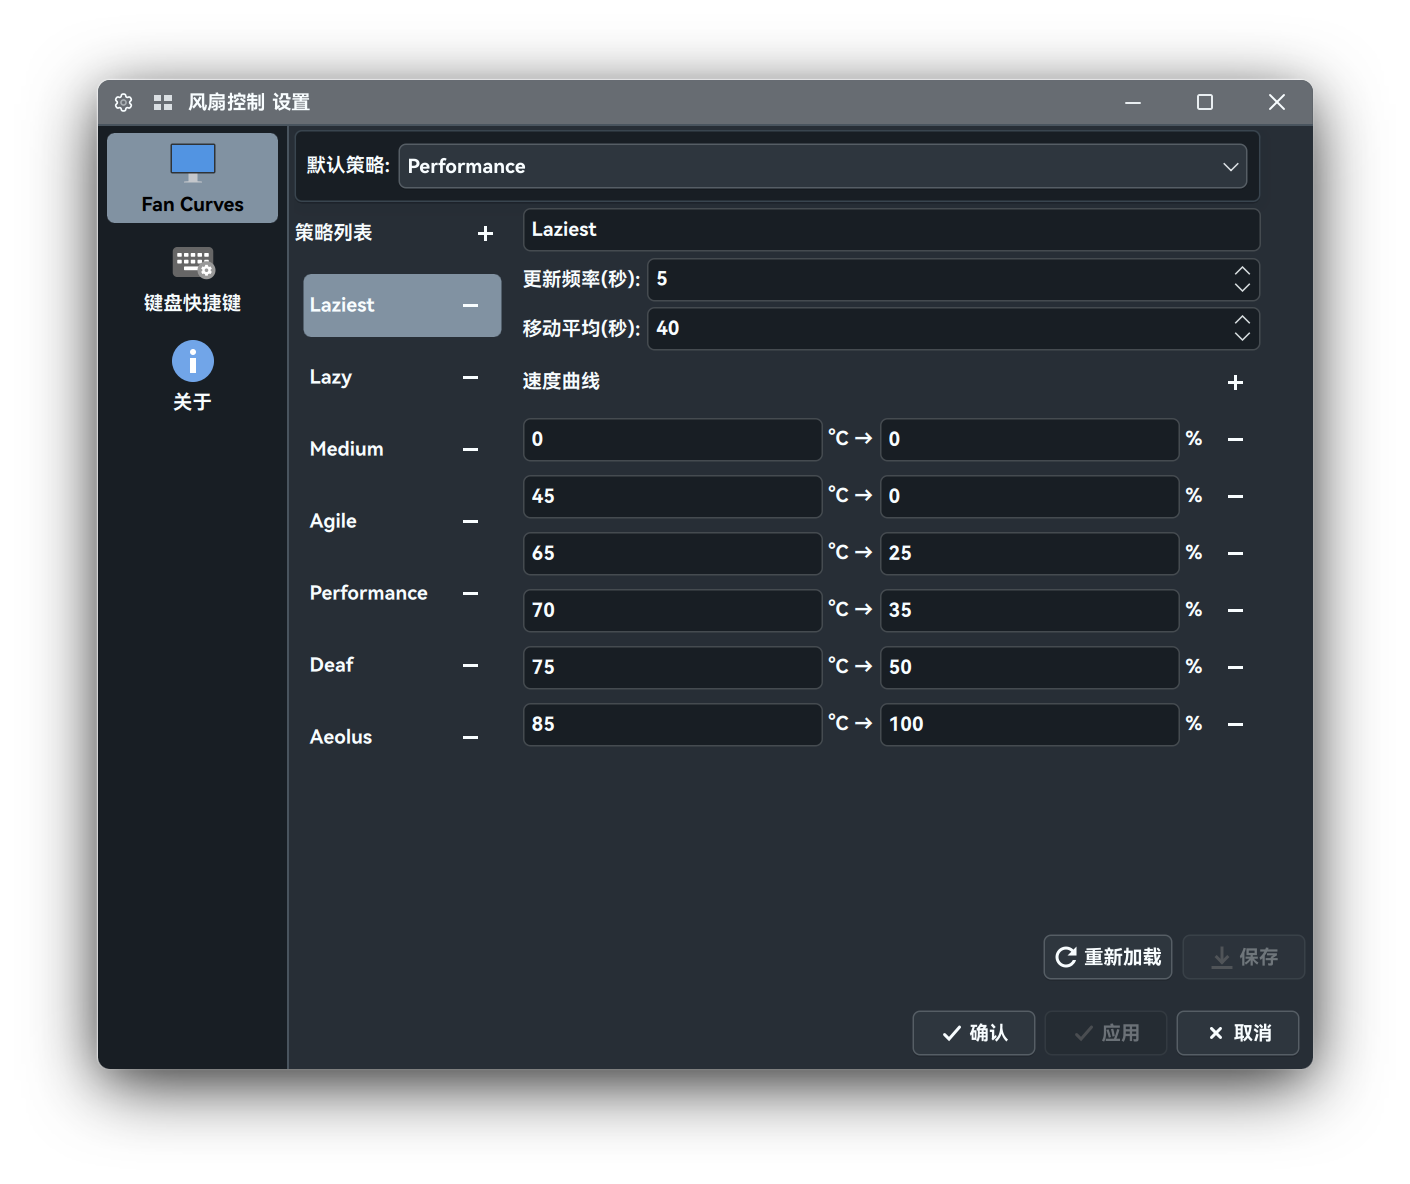
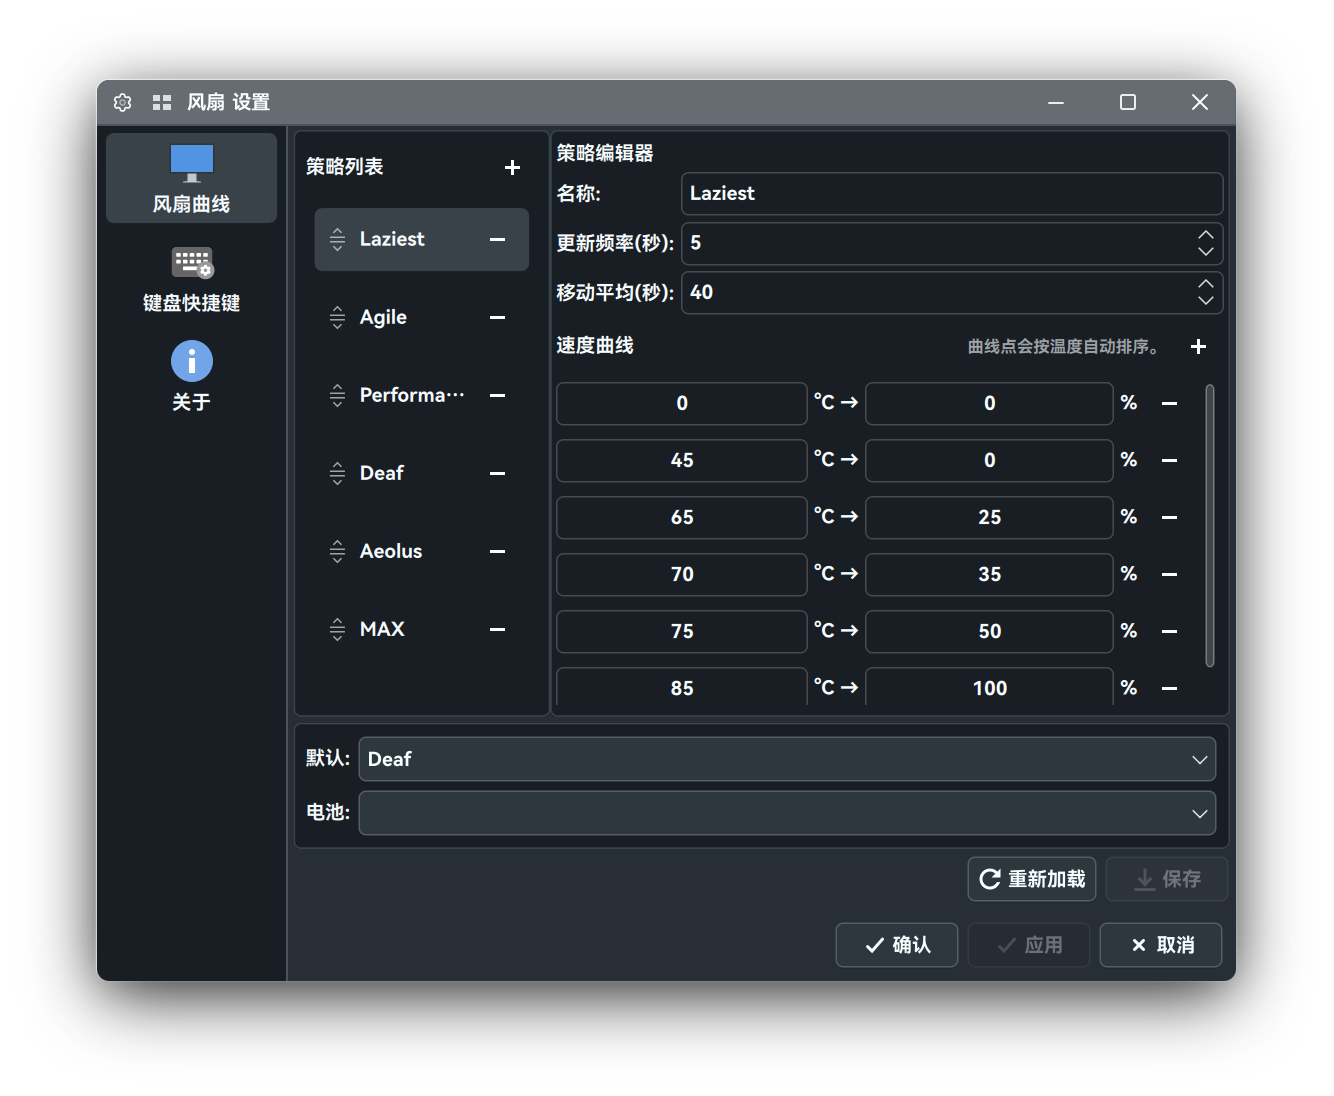
v1.2: update config editor docs, packaging and version

diff --git a/README.md b/README.md
@@ -12,7 +12,10 @@ A vibe coding program, powered with ![DeepSeek V4](https://img.shields.io/badge/
 - **Strategy slider**: Quickly switch between strategies (Silent ↔ Performance)
 - **System tray integration**: Hover and scroll on the tray icon to cycle between strategies
 - **OSD integration**: Compatible with KDE's On-Screen Display for strategy change notifications
-- **Configuration editor**: Create, edit, rename, and delete strategies; configure speed curves
+- **Configuration editor**: Create, edit, rename, delete and drag-to-reorder strategies; configure speed curves
+- **Responsive layout**: The editor adapts to window size, with internal scrolling for long lists
+- **Battery strategy**: Choose a separate strategy while on battery power
+- **Safe saving**: Config is validated and applied by fw-fanctrl automatically
 
 ## Screenshots
 
@@ -32,11 +35,25 @@ A vibe coding program, powered with ![DeepSeek V4](https://img.shields.io/badge/
 
 ## Installation
 
-### From source
+### From Release (recommended for users)
+
+1. Download the `com.github.iwinoid.fw-fanctrl-kde-1.2.tar.xz` package from the [Releases](../../releases) page.
+2. In Plasma, open **Add Widgets → Get New Widgets... → Install from local file**, then select the downloaded `.tar.xz`.
+3. Or install it from a terminal:
 
 ```bash
-git clone https://github.com/iwinoid/fw-fanctl-kde.git
-cd fw-fanctl-kde
+kpackagetool6 --type=Plasma/Applet --install com.github.iwinoid.fw-fanctrl-kde-1.2.tar.xz
+```
+
+4. Restart Plasma if the widget does not appear immediately.
+
+The release package only contains runtime files (`metadata.json`, `contents/`, `scripts/`), so it is smaller and easier for normal users to install.
+
+### From Source (for developers)
+
+```bash
+git clone https://github.com/iwinoid/fw-fanctrl-kde.git
+cd fw-fanctrl-kde
 make install
 ```
 
@@ -46,13 +63,7 @@ This will:
 2. Set executable permissions on the helper script
 3. Restart Plasma shell automatically
 
-### Manual
-
-```bash
-kpackagetool6 --type=Plasma/Applet --install .
-```
-
-Then restart Plasma: `kquitapp6 plasmashell; plasmashell &`
+The source tree also contains README, LICENSE, Makefile and screenshots; use this method if you want to modify or develop the widget.
 
 ## Usage
 
@@ -60,7 +71,7 @@ Then restart Plasma: `kquitapp6 plasmashell; plasmashell &`
 2. Click the tray icon to open the popup
 3. Drag the slider to switch strategy
 4. Right-click the tray icon → **Configure** to edit strategies and fan curves
-5. Click **Save** to apply changes (requires admin password via `pkexec`)
+5. Click **Save** — fw-fanctrl validates and applies the configuration automatically
 
 ## Project Structure
 
@@ -81,7 +92,7 @@ fw-fanctrl-kde/
 │   │   ├── 16.png, 32.png, 64.png # Toolbar icons
 │   │   └── offline.png           # Offline state icon
 │   └── ui/
-│       ├── configCurves.qml      # Configuration editor UI
+│       ├── configCurves.qml      # Config editor with drag-and-drop strategy reordering
 │       ├── FwBackend.qml         # QML backend (DataSource + poll timer)
 │       └── main.qml              # Main plasmoid UI
 └── image/

diff --git a/README.zh_CN.md b/README.zh_CN.md
@@ -11,7 +11,10 @@
 - **实时状态**：显示当前温度、风扇转速和策略
 - **策略滑条**：快速在静音↔性能之间切换策略
 - **系统托盘集成**：附带悬停在图标上滑动滚轮进行策略切换
-- **配置编辑器**：创建、编辑、重命名、删除策略，配置速度曲线
+- **配置编辑器**：创建、编辑、重命名、删除、拖拽排序策略，配置速度曲线
+- **响应式布局**：编辑器随窗口自适应，长列表在内部滚动
+- **电池策略**：可单独设置电池供电时的策略
+- **安全保存**：保存时由 fw-fanctrl 自动校验并应用
 - **OSD集成**：兼容KDE的OSD
 
 
@@ -33,11 +36,25 @@
 
 ## 安装
 
-### 源码安装
+### 从 Release 安装（普通用户推荐）
+
+1. 从 [Releases](../../releases) 页面下载 `com.github.iwinoid.fw-fanctrl-kde-1.2.tar.xz` 包。
+2. 在 Plasma 中打开 **添加小部件 → 获取新小部件... → 从本地文件安装**，选择下载的 `.tar.xz`。
+3. 或者使用终端安装：
 
 ```bash
-git clone https://github.com/iwinoid/fw-fanctl-kde.git
-cd fw-fanctl-kde
+kpackagetool6 --type=Plasma/Applet --install com.github.iwinoid.fw-fanctrl-kde-1.2.tar.xz
+```
+
+4. 如果小部件没有立即出现，重启 Plasma 即可。
+
+Release 包只包含运行所需文件（`metadata.json`、`contents/`、`scripts/`），体积更小，适合普通用户。
+
+### 源码安装（开发者）
+
+```bash
+git clone https://github.com/iwinoid/fw-fanctrl-kde.git
+cd fw-fanctrl-kde
 make install
 ```
 
@@ -47,13 +64,7 @@ make install
 2. 设置辅助脚本的可执行权限
 3. 自动重启 Plasma
 
-### 手动安装
-
-```bash
-kpackagetool6 --type=Plasma/Applet --install .
-```
-
-然后重启 Plasma：`kquitapp6 plasmashell; plasmashell &`
+源码目录还包含 README、LICENSE、Makefile 和截图；如果你想修改或二次开发，请使用源码安装。
 
 ## 使用
 
@@ -61,7 +72,7 @@ kpackagetool6 --type=Plasma/Applet --install .
 2. 点击托盘图标打开弹出窗口
 3. 拖动滑条切换策略
 4. 右键托盘图标 → **配置** 编辑策略和风扇曲线
-5. 点击 **保存** 应用更改（需输入管理员密码来保存修改）
+5. 点击 **保存**，fw-fanctrl 会自动校验并应用配置
 
 ## 项目结构
 
@@ -82,7 +93,7 @@ fw-fanctrl-kde/
 │   │   ├── 16.png, 32.png, 64.png # 工具栏图标
 │   │   └── offline.png           # 离线状态图标
 │   └── ui/
-│       ├── configCurves.qml      # 配置编辑器界面
+│       ├── configCurves.qml      # 配置编辑器，支持拖拽排序策略
 │       ├── FwBackend.qml         # QML 后端 (DataSource + 轮询定时器)
 │       └── main.qml              # 主界面
 └── image/
